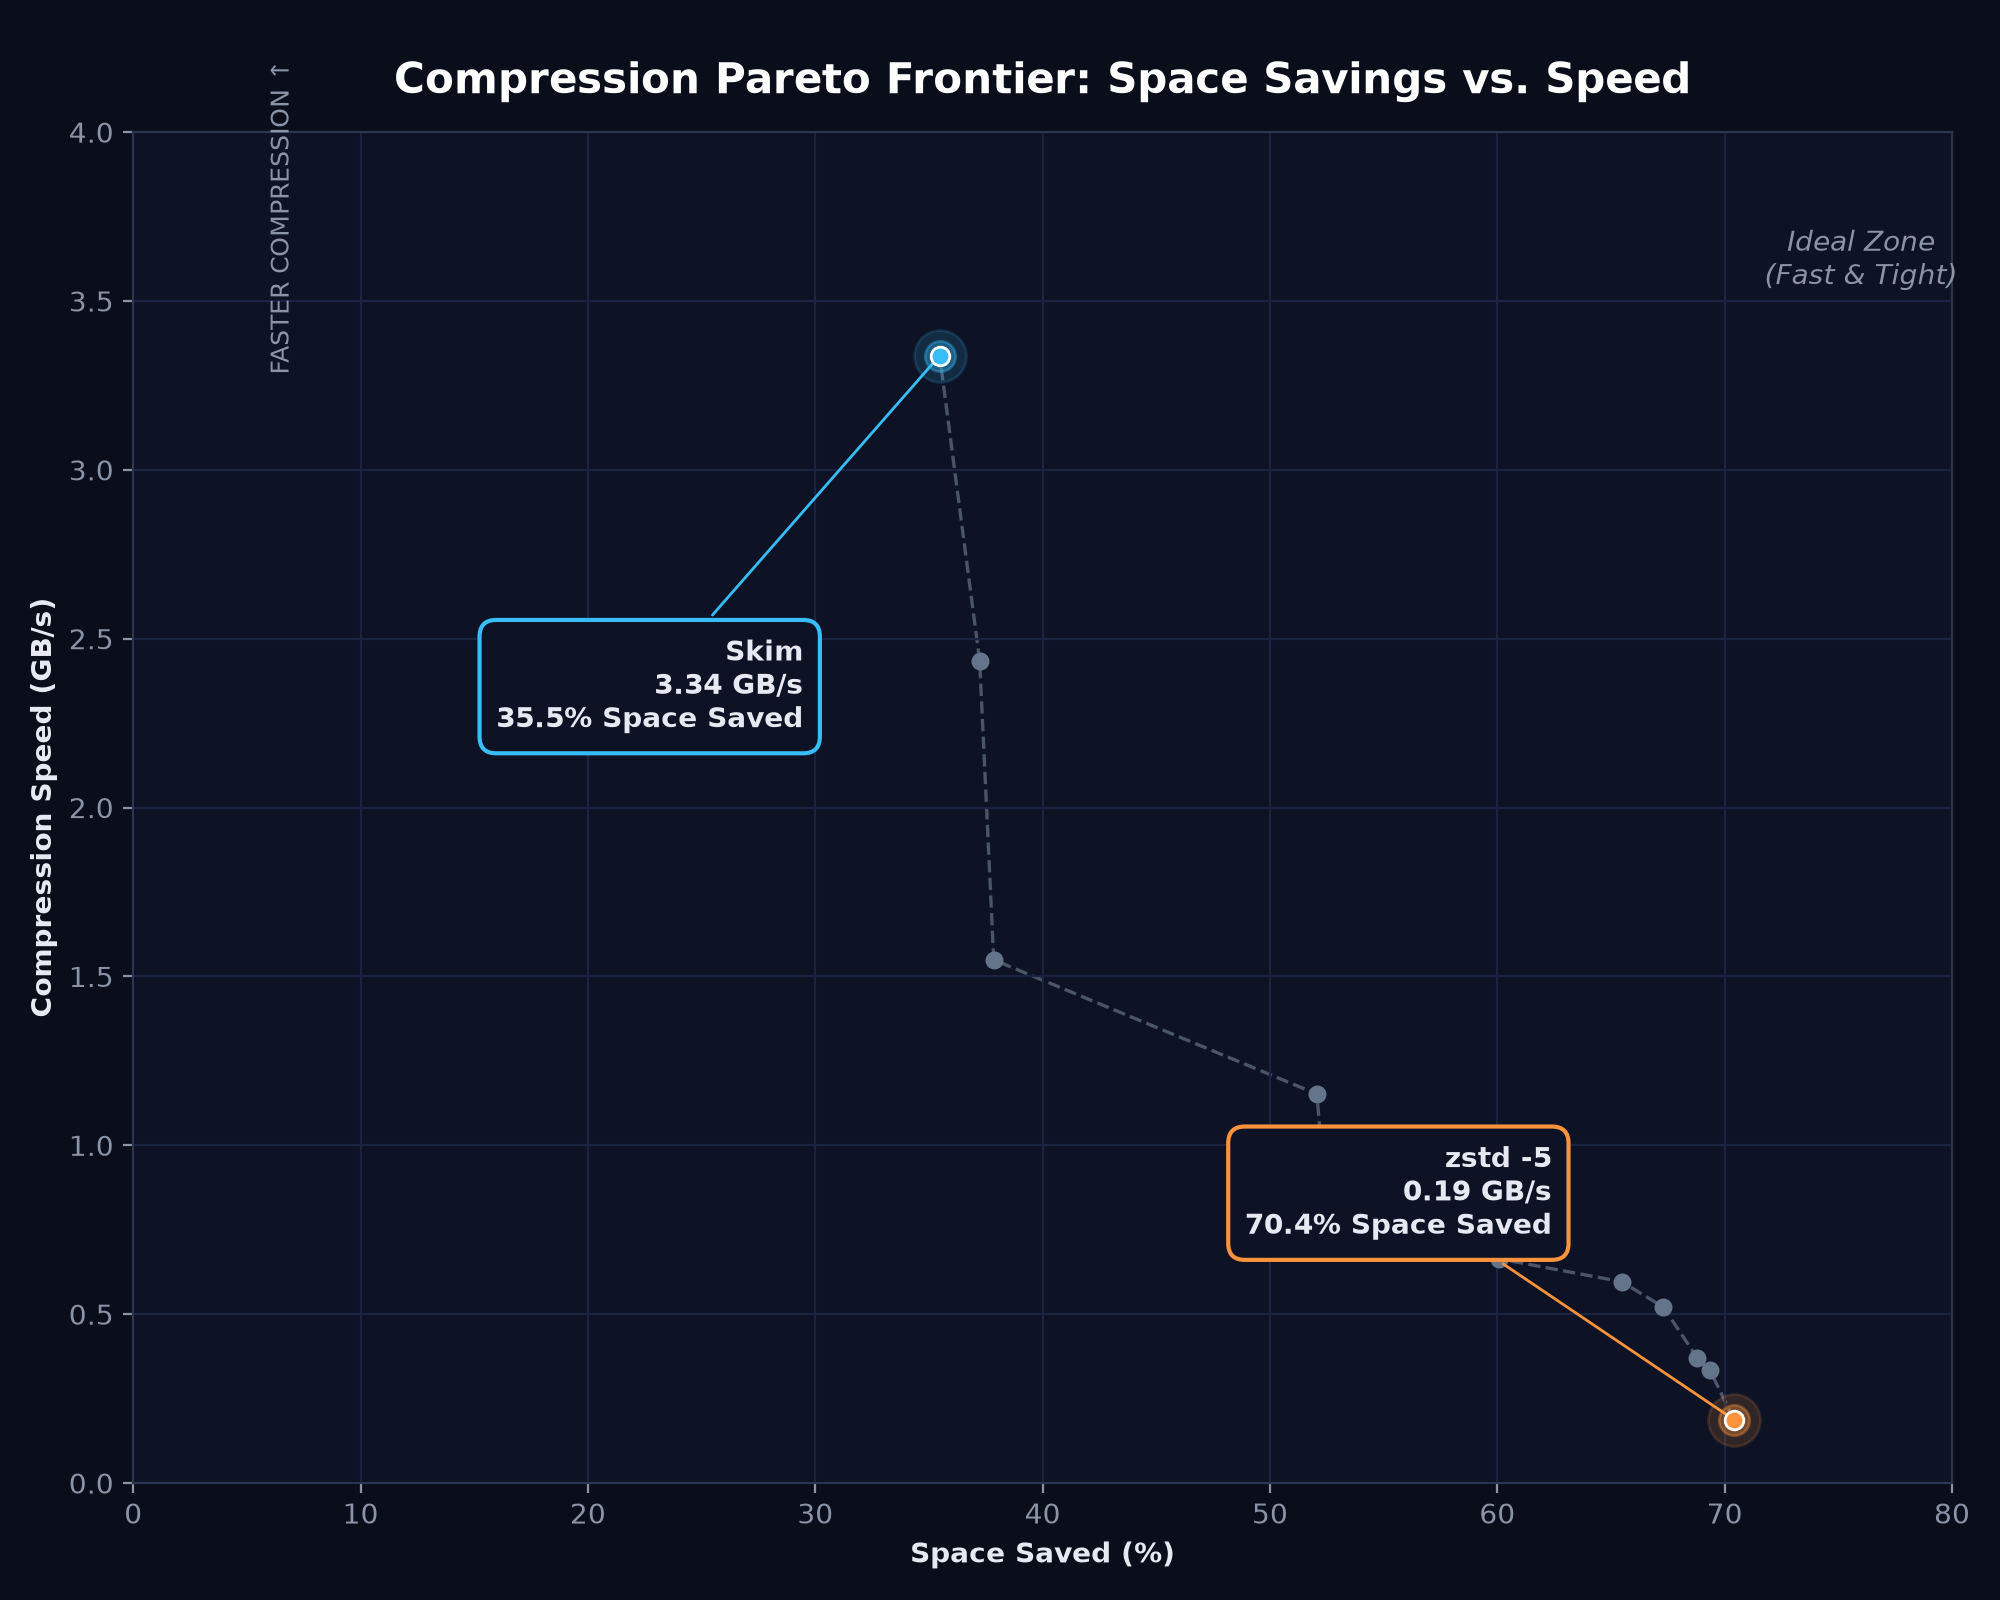
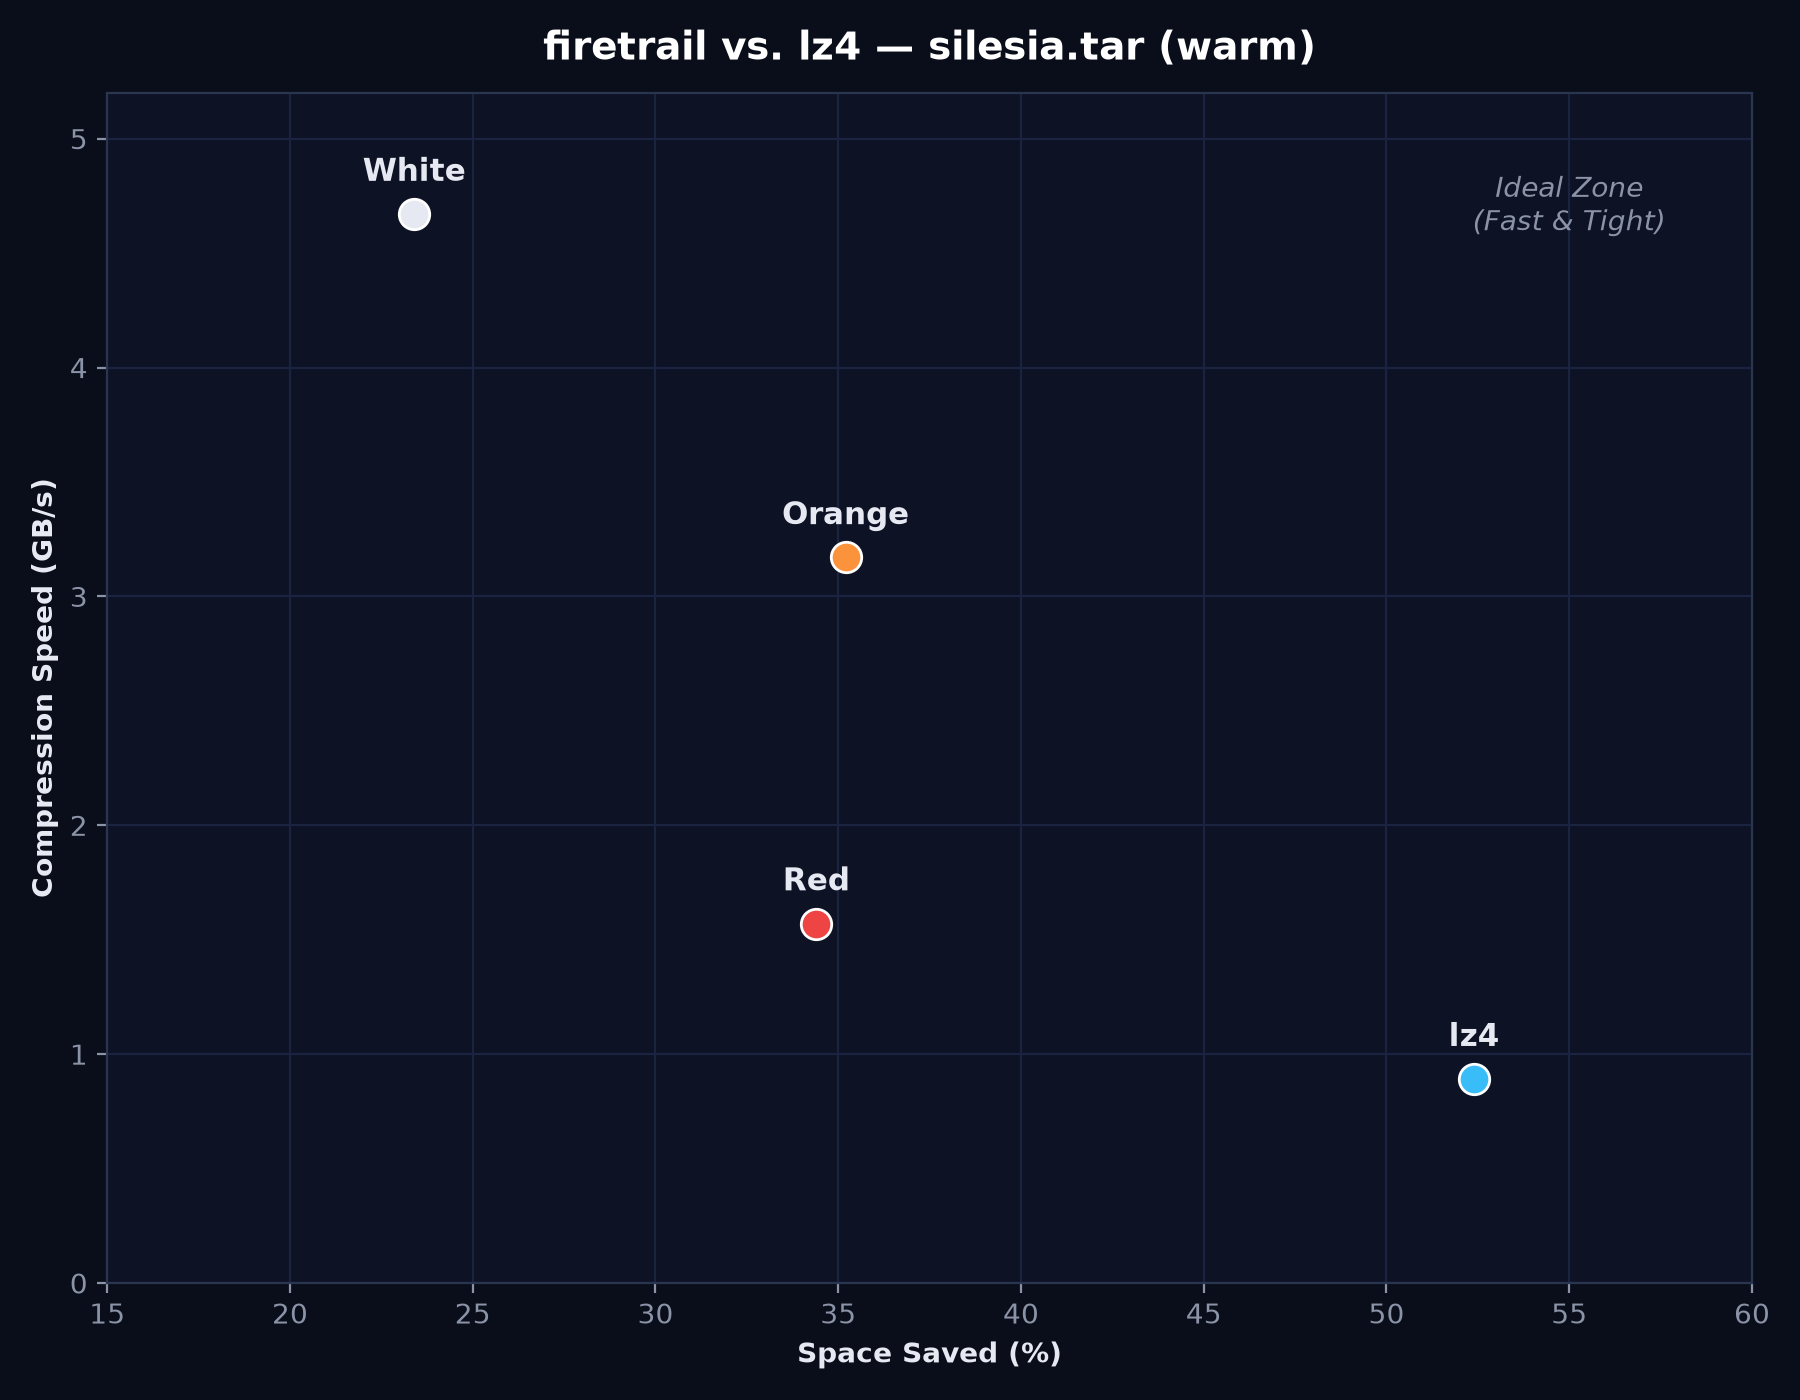
Tidy README table formatting and update plot

diff --git a/README.md b/README.md
@@ -14,11 +14,11 @@ Firetrail comes in three flavors, all built around the same idea: hash 8-byte wo
 
 ### On `silesia.tar` (mixed corpus, zbench, warm)
 
-| | Encode | Decode | Ratio |
-|---|---|---|---|
+|                      | Encode     | Decode     | Ratio        |
+| -------------------- | ---------- | ---------- | ------------ |
 | White (trained dict) | ~4.67 GB/s | ~7.55 GB/s | ~23.4% saved |
-| Orange | ~3.17 GB/s | ~5.37 GB/s | ~35.2% saved |
-| Red | ~1.57 GB/s | ~1.95 GB/s | ~34.4% saved |
+| Orange               | ~3.17 GB/s | ~5.37 GB/s | ~35.2% saved |
+| Red                  | ~1.57 GB/s | ~1.95 GB/s | ~34.4% saved |
 
 ### lz4 (for reference)
 
@@ -57,4 +57,3 @@ zig build bench --release=fast -- data/silesia.tar
 ```
 
 Cold runs use an empty table; warm runs use a dictionary trained by red on the input itself.
-`
